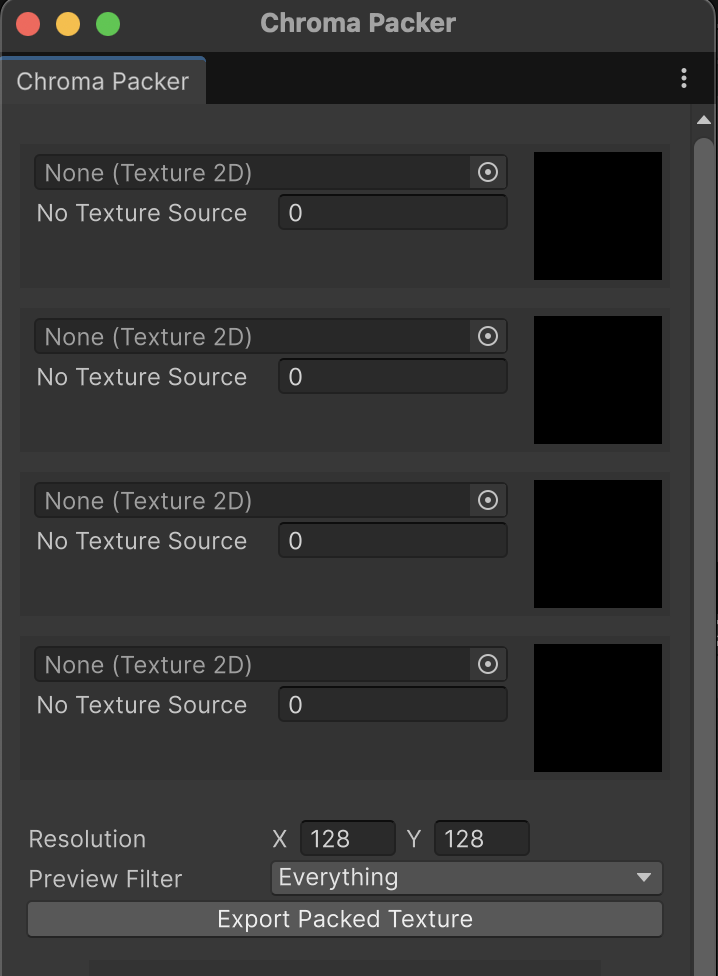
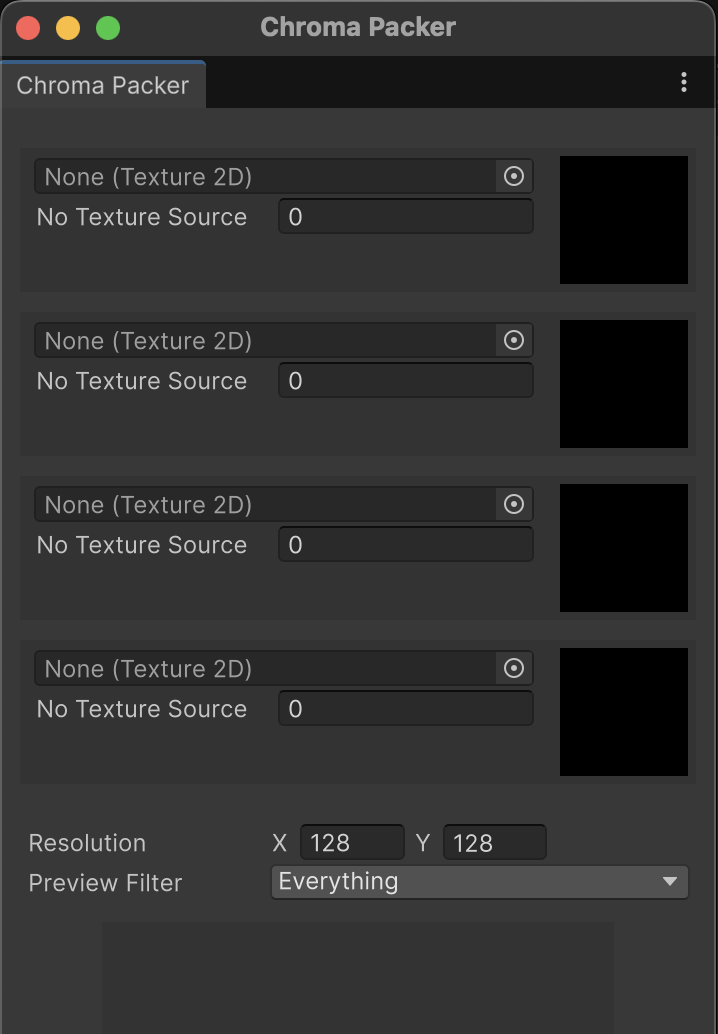
Add clipping option, improve UX with MinMaxSlider

diff --git a/Editor/ChromaPackerEditor.cs b/Editor/ChromaPackerEditor.cs
@@ -23,8 +23,8 @@ namespace AmeWorks.ChromaPacker.Editor
         private readonly SamplingType[] _samplingTypes = new SamplingType[CHANNEL_COUNT];
         private readonly bool[] _channelInverts = new bool[CHANNEL_COUNT];
         private readonly float[] _channelScalers = new float[CHANNEL_COUNT];
-        private readonly float[] _channelMin = new float[CHANNEL_COUNT];
-        private readonly float[] _channelMax = new float[CHANNEL_COUNT];
+        private readonly Vector2[] _channelClamp = new Vector2[CHANNEL_COUNT];
+        private readonly Vector2[] _channelClip = new Vector2[CHANNEL_COUNT];
         
         private ChannelMask _previewMasking = ChannelMask.R | ChannelMask.G | ChannelMask.B | ChannelMask.A;
         private Vector2Int _textureSize = new (128, 128);
@@ -62,8 +62,8 @@ namespace AmeWorks.ChromaPacker.Editor
                 _channelMasks,
                 _channelInverts, 
                 _channelScalers, 
-                _channelMin, 
-                _channelMax, 
+                _channelClamp, 
+                _channelClip, 
                 _channelTextures,
                 _samplingTypes,
                 _previewMasking);
@@ -83,7 +83,8 @@ namespace AmeWorks.ChromaPacker.Editor
             for (int i = 0; i < CHANNEL_COUNT; i++)
             {
                 _channelMasks[i] = ChannelMask.R;
-                _channelMax[i] = 1.0f;
+                _channelClamp[i] = new Vector2(0, 1);
+                _channelClip[i] = new Vector2(0, 1);
                 _channelScalers[i] = 1.0f;
             }
             
@@ -203,18 +204,17 @@ namespace AmeWorks.ChromaPacker.Editor
                     _channelScalers[index] = evt.newValue;
                     _isRTDirty = true;
                 });
-                FloatField channelMinField = new FloatField("Min");
-                channelMinField.value = _channelMin[index];
-                channelMinField.RegisterValueChangedCallback(evt =>
+                
+                MinMaxSlider clampSlider = new MinMaxSlider("Clamp", _channelClamp[index].x, _channelClamp[index].y, 0, 1);
+                clampSlider.RegisterValueChangedCallback(evt =>
                 {
-                    _channelMin[index] = evt.newValue;
+                    _channelClamp[index] = evt.newValue;
                     _isRTDirty = true;
                 });
-                FloatField channelMaxField = new FloatField("Max");
-                channelMaxField.value = _channelMax[index];
-                channelMaxField.RegisterValueChangedCallback(evt =>
+                MinMaxSlider clipSlider = new MinMaxSlider("Clip", _channelClip[index].x, _channelClip[index].y, 0, 1);
+                clipSlider.RegisterValueChangedCallback(evt =>
                 {
-                    _channelMax[index] = evt.newValue;
+                    _channelClip[index] = evt.newValue;
                     _isRTDirty = true;
                 });
                 EnumField samplingTypeField = new EnumField("Sampling Type", _samplingTypes[index]);
@@ -231,8 +231,8 @@ namespace AmeWorks.ChromaPacker.Editor
                 textureGroup.Add(channelEnumField);
                 textureGroup.Add(invertToggle);
                 textureGroup.Add(channelScalerField);
-                textureGroup.Add(channelMinField);
-                textureGroup.Add(channelMaxField);
+                textureGroup.Add(clampSlider);
+                textureGroup.Add(clipSlider);
                 textureGroup.Add(samplingTypeField);
                 
                 noTextureGroup.Add(defaultValueField);

diff --git a/Editor/ChromaPackerRTGenerator.cs b/Editor/ChromaPackerRTGenerator.cs
@@ -25,8 +25,8 @@ namespace AmeWorks.ChromaPacker.Editor
             ChannelMask[]   channelMasks, 
             bool[]          inverts, 
             float[]         channelScalers, 
-            float[]         channelMin, 
-            float[]         channelMax, 
+            Vector2[]       channelClamp, 
+            Vector2[]       channelClip, 
             Texture2D[]     channelTextures,
             SamplingType[]  samplingTypes,
             ChannelMask     previewMasking)
@@ -43,8 +43,8 @@ namespace AmeWorks.ChromaPacker.Editor
                     samplingType    = textureIsValid    ? (int)samplingTypes[i]    : 0,
                     invert          = inverts[i]        ? 1                        : 0,
                     scaler          = channelScalers[i],
-                    min             = channelMin[i],
-                    max             = channelMax[i],
+                    clamp           = channelClamp[i],
+                    clip            = channelClip[i],
                     defaultValue    = defaultValues[i],
                 };
             }
@@ -71,7 +71,7 @@ namespace AmeWorks.ChromaPacker.Editor
             previewResultRT.enableRandomWrite = true;
             previewResultRT.Create();
             
-            var channelDataBuffer = new ComputeBuffer(4, sizeof(float) * 4 + sizeof(int) * 5);
+            var channelDataBuffer = new ComputeBuffer(4, sizeof(float) * 6 + sizeof(int) * 5);
             channelDataBuffer.SetData(_channelDatas);
             
             _packTextureCS.SetBuffer(0, _channelDataBufferShaderID, channelDataBuffer);

diff --git a/Editor/ChannelData.cs b/Editor/ChannelData.cs
@@ -1,4 +1,5 @@
 using System.Runtime.InteropServices;
+using UnityEngine;
 
 namespace AmeWorks.ChromaPacker.Editor
 {
@@ -11,8 +12,8 @@ namespace AmeWorks.ChromaPacker.Editor
         public int samplingType;
         public int invert;
         public float scaler;
-        public float min;
-        public float max;
+        public Vector2 clamp;
+        public Vector2 clip;
         public float defaultValue;
     }
 }

diff --git a/README.md b/README.md
@@ -5,7 +5,7 @@ Inspired by https://github.com/camobiwon/ChannelPacker/tree/main from Camobiwon
 
 ### Features
 - Assign input textures to specific output channels (R, G, B, A)
-- Optional channel input adjustments: inversion, scaling, and clamping
+- Optional channel input adjustments: inversion, scaling, clipping and clamping
 - Supports repeat texture sampling mode
 - Real-time preview of the packed texture with configurable filtering options
 - Export your packed texture in PNG format
@@ -14,7 +14,4 @@ Inspired by https://github.com/camobiwon/ChannelPacker/tree/main from Camobiwon
 |:----------------------:|:----------------------:|
 | ![image](Preview0.png) | ![image](Preview1.png) |
 
-### Planned
-- (UX) Improve min/max editor drawer
-- (Feature) Add option to clip start/end
-- (Feature) Add option to offset input texture
+
